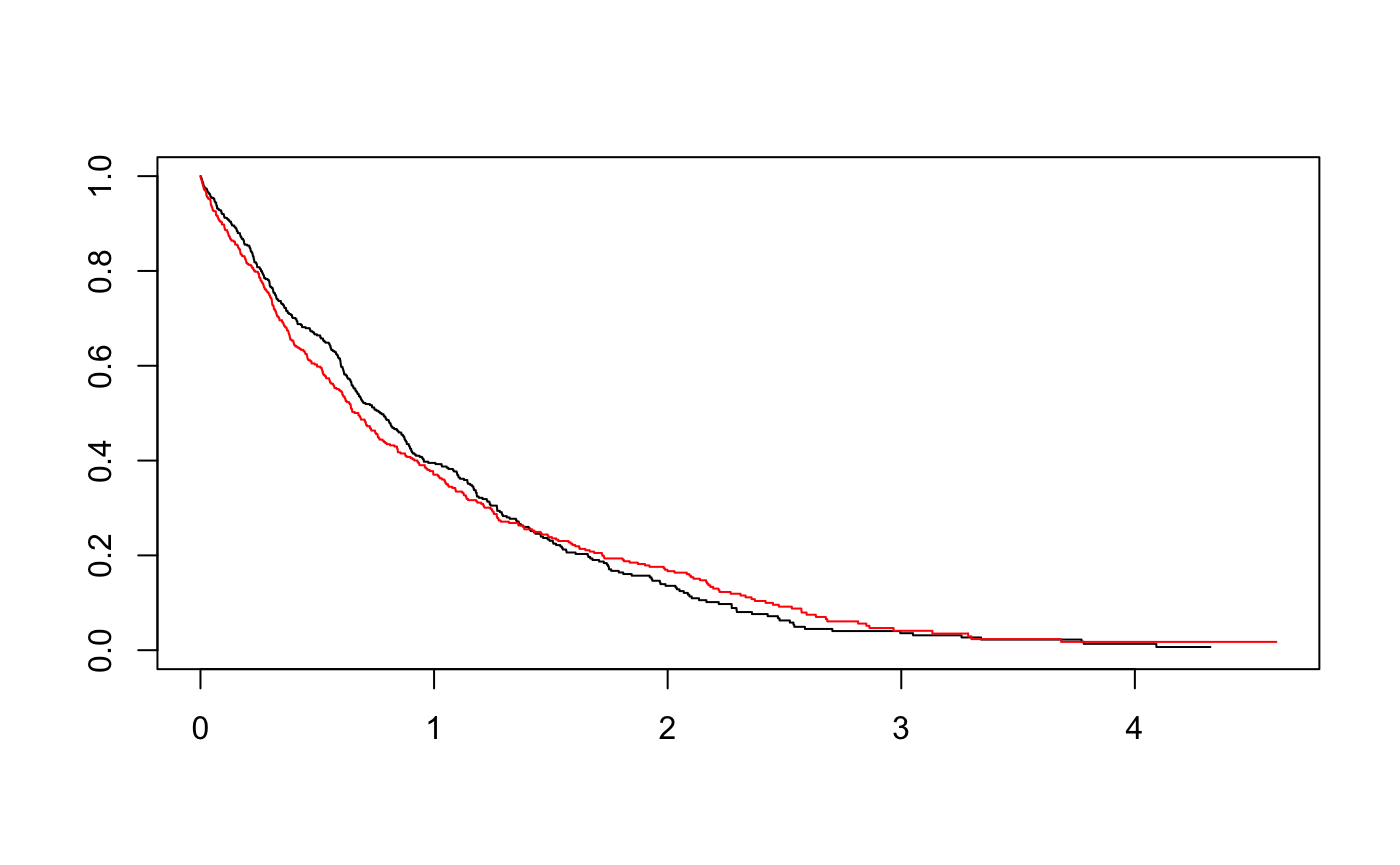
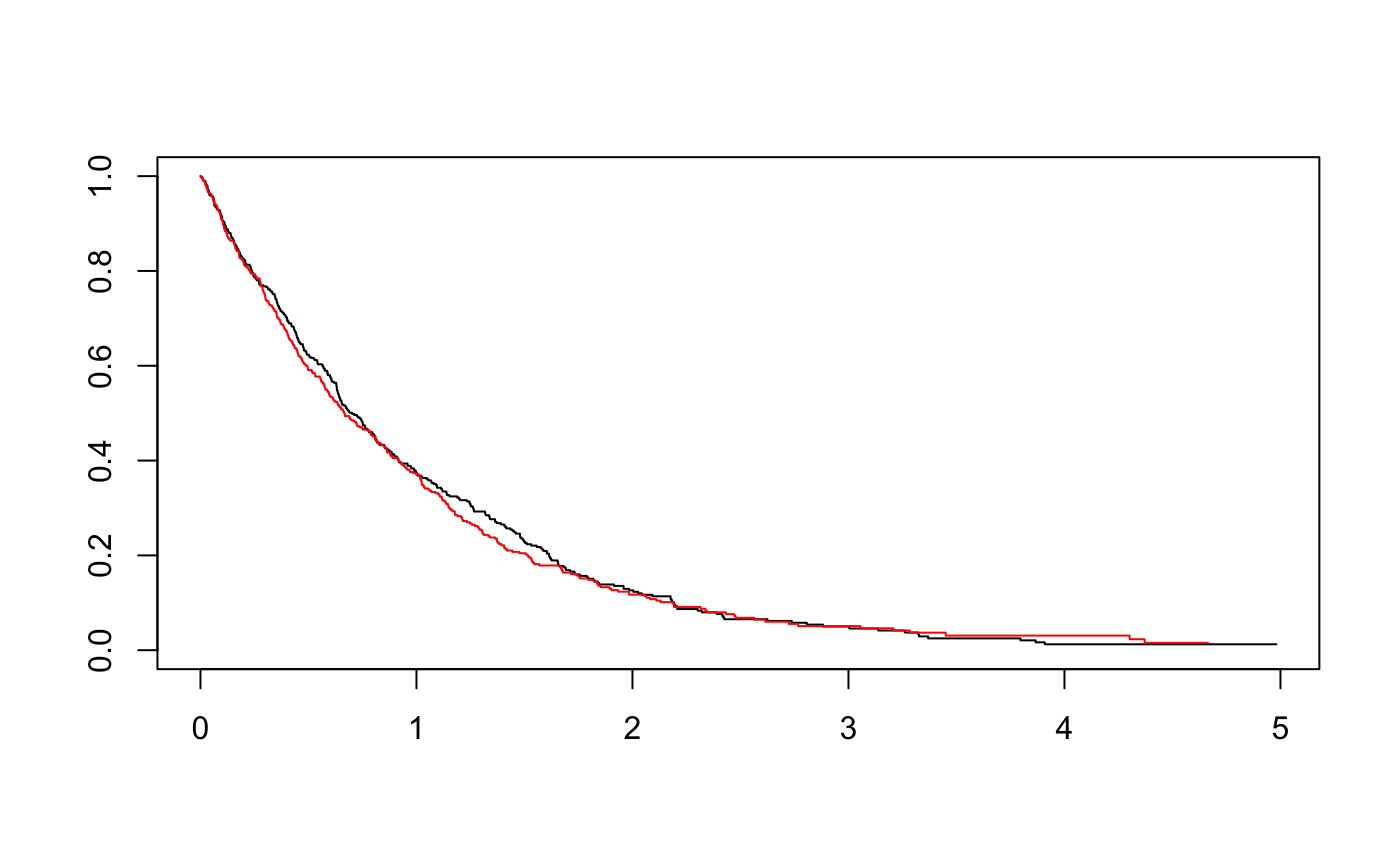
Built site for miboot: 0.0.0.9000@79f2651

Changed region(s): [[0.1843, 0.3121, 0.9214, 0.7491], [0.1536, 0.2497, 0.1843, 0.3121], [0.1229, 0.2185, 0.1536, 0.2497]]

diff --git a/articles/mar.html b/articles/mar.html
@@ -124,15 +124,15 @@
 <span class="co">#&gt; </span>
 <span class="co">#&gt;       pattern</span>
 <span class="co">#&gt; status   1   2   3</span>
-<span class="co">#&gt;      0   0   0 130</span>
-<span class="co">#&gt;      1 442   0   0</span>
+<span class="co">#&gt;      0   0   0 107</span>
+<span class="co">#&gt;      1 435   0   0</span>
 <span class="co">#&gt; </span>
 <span class="co">#&gt; , ,  = TRUE</span>
 <span class="co">#&gt; </span>
 <span class="co">#&gt;       pattern</span>
 <span class="co">#&gt; status   1   2   3</span>
-<span class="co">#&gt;      0   0  71   0</span>
-<span class="co">#&gt;      1 357   0   0</span></pre></body></html></div>
+<span class="co">#&gt;      0   0  79   0</span>
+<span class="co">#&gt;      1 379   0   0</span></pre></body></html></div>
 </div>
 <div id="mar-analysis" class="section level1">
 <h1 class="hasAnchor">
@@ -147,21 +147,21 @@
 <span class="co">#&gt; </span>
 <span class="co">#&gt; Restricted Mean Survival Time (RMST) by arm </span>
 <span class="co">#&gt;               Est.    se lower .95 upper .95</span>
-<span class="co">#&gt; RMST (arm=1) 0.968 0.042     0.887     1.050</span>
-<span class="co">#&gt; RMST (arm=0) 0.978 0.039     0.903     1.054</span>
+<span class="co">#&gt; RMST (arm=1) 0.920 0.039     0.844     0.996</span>
+<span class="co">#&gt; RMST (arm=0) 0.957 0.039     0.880     1.034</span>
 <span class="co">#&gt; </span>
 <span class="co">#&gt; </span>
 <span class="co">#&gt; Restricted Mean Time Lost (RMTL) by arm </span>
 <span class="co">#&gt;               Est.    se lower .95 upper .95</span>
-<span class="co">#&gt; RMTL (arm=1) 2.032 0.042     1.950     2.113</span>
-<span class="co">#&gt; RMTL (arm=0) 2.022 0.039     1.946     2.097</span>
+<span class="co">#&gt; RMTL (arm=1) 2.080 0.039     2.004     2.156</span>
+<span class="co">#&gt; RMTL (arm=0) 2.043 0.039     1.966     2.120</span>
 <span class="co">#&gt; </span>
 <span class="co">#&gt; </span>
 <span class="co">#&gt; Between-group contrast </span>
 <span class="co">#&gt;                        Est. lower .95 upper .95     p</span>
-<span class="co">#&gt; RMST (arm=1)-(arm=0) -0.010    -0.122     0.101 0.855</span>
-<span class="co">#&gt; RMST (arm=1)/(arm=0)  0.989     0.883     1.109 0.856</span>
-<span class="co">#&gt; RMTL (arm=1)/(arm=0)  1.005     0.951     1.062 0.855</span></pre></body></html></div>
+<span class="co">#&gt; RMST (arm=1)-(arm=0) -0.037    -0.145     0.071 0.500</span>
+<span class="co">#&gt; RMST (arm=1)/(arm=0)  0.961     0.857     1.078 0.501</span>
+<span class="co">#&gt; RMTL (arm=1)/(arm=0)  1.018     0.966     1.073 0.501</span></pre></body></html></div>
 </div>
 <div id="rmst-within-group" class="section level2">
 <h2 class="hasAnchor">
@@ -169,9 +169,9 @@
 <div class="sourceCode" id="cb7"><html><body><pre class="r"><span class="no">delta</span>   <span class="kw">&lt;-</span> <span class="fu"><a href="https://rdrr.io/r/base/c.html">c</a></span>(<span class="fl">1</span>,<span class="fl">1</span>,<span class="fl">1</span>)[<span class="no">pattern</span>]  <span class="co"># the third number control delta adjustment for MNAR </span>
 <span class="no">tmp</span> <span class="kw">&lt;-</span> <span class="fu">rmst_delta</span>(<span class="no">time</span>, <span class="no">status</span>, <span class="kw">x</span> <span class="kw">=</span> <span class="fu"><a href="https://rdrr.io/r/base/rep.html">rep</a></span>(<span class="fl">1</span>, <span class="fu"><a href="https://rdrr.io/r/base/length.html">length</a></span>(<span class="no">time</span>)), <span class="no">group</span>, <span class="no">pattern</span>, <span class="no">delta</span>, <span class="no">tau</span>, <span class="kw">n_mi</span> <span class="kw">=</span> <span class="fl">5</span>, <span class="kw">n_b</span> <span class="kw">=</span> <span class="fl">100</span>, <span class="kw">seed</span> <span class="kw">=</span> <span class="fl">123</span>)
 <span class="no">tmp</span>$<span class="no">rmst</span>
-<span class="co">#&gt;      group      rmst         sd      wb_sd</span>
-<span class="co">#&gt; [1,]     0 0.9821636 0.03615660 0.03630436</span>
-<span class="co">#&gt; [2,]     1 0.9699361 0.04056465 0.04311111</span></pre></body></html></div>
+<span class="co">#&gt;      group      rmst         sd     wb_sd</span>
+<span class="co">#&gt; [1,]     0 0.9572021 0.03691312 0.0368799</span>
+<span class="co">#&gt; [2,]     1 0.9218238 0.03639850 0.0378457</span></pre></body></html></div>
 </div>
 <div id="rmst-between-group" class="section level2">
 <h2 class="hasAnchor">
@@ -185,9 +185,9 @@
 
 <span class="fu"><a href="https://rdrr.io/r/base/cbind.html">rbind</a></span>( <span class="fu">diff_rmst</span>(<span class="no">tmp</span>$<span class="no">rmst</span>[,<span class="st">"rmst"</span>], <span class="no">tmp</span>$<span class="no">rmst</span>[, <span class="st">"sd"</span>]),
        <span class="fu">diff_rmst</span>(<span class="no">tmp</span>$<span class="no">rmst</span>[,<span class="st">"rmst"</span>], <span class="no">tmp</span>$<span class="no">rmst</span>[, <span class="st">"wb_sd"</span>]))
-<span class="co">#&gt;             diff         sd         p</span>
-<span class="co">#&gt; [1,] -0.01222754 0.05433959 0.8219630</span>
-<span class="co">#&gt; [2,] -0.01222754 0.05636111 0.8282473</span></pre></body></html></div>
+<span class="co">#&gt;            diff         sd         p</span>
+<span class="co">#&gt; [1,] -0.0353783 0.05184041 0.4949568</span>
+<span class="co">#&gt; [2,] -0.0353783 0.05284340 0.5031808</span></pre></body></html></div>
 </div>
 </div>
   </div>
